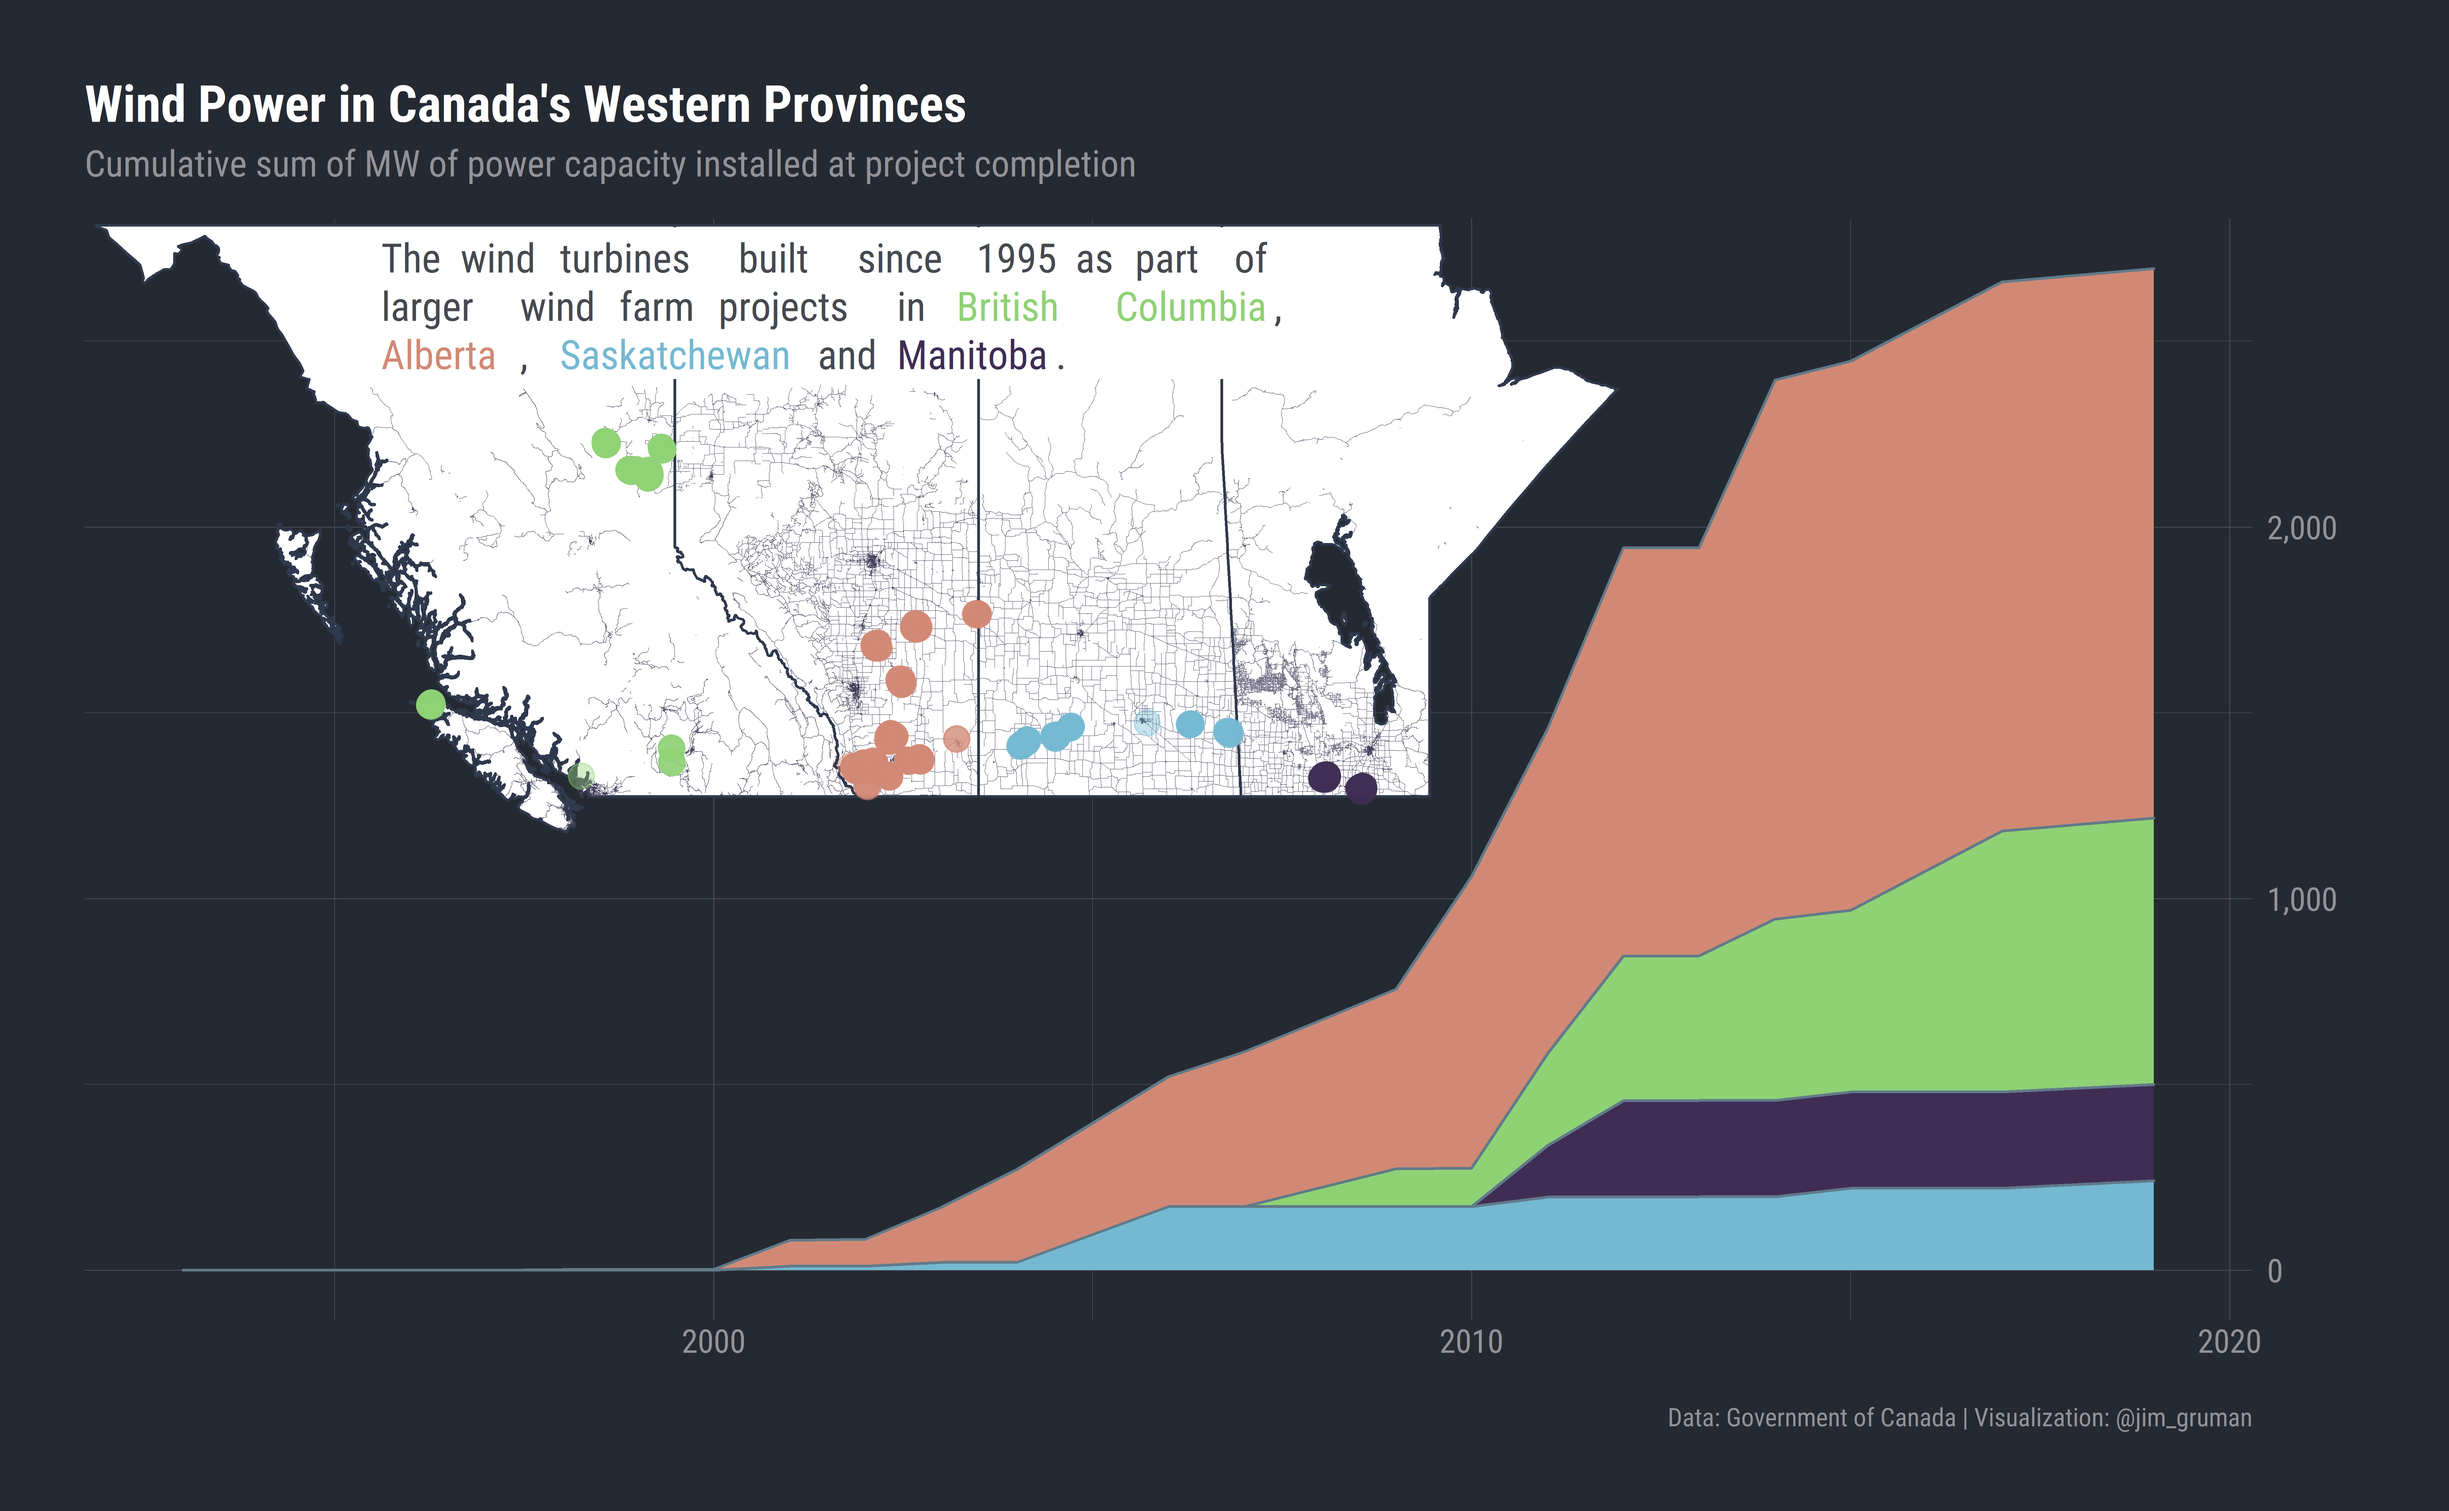
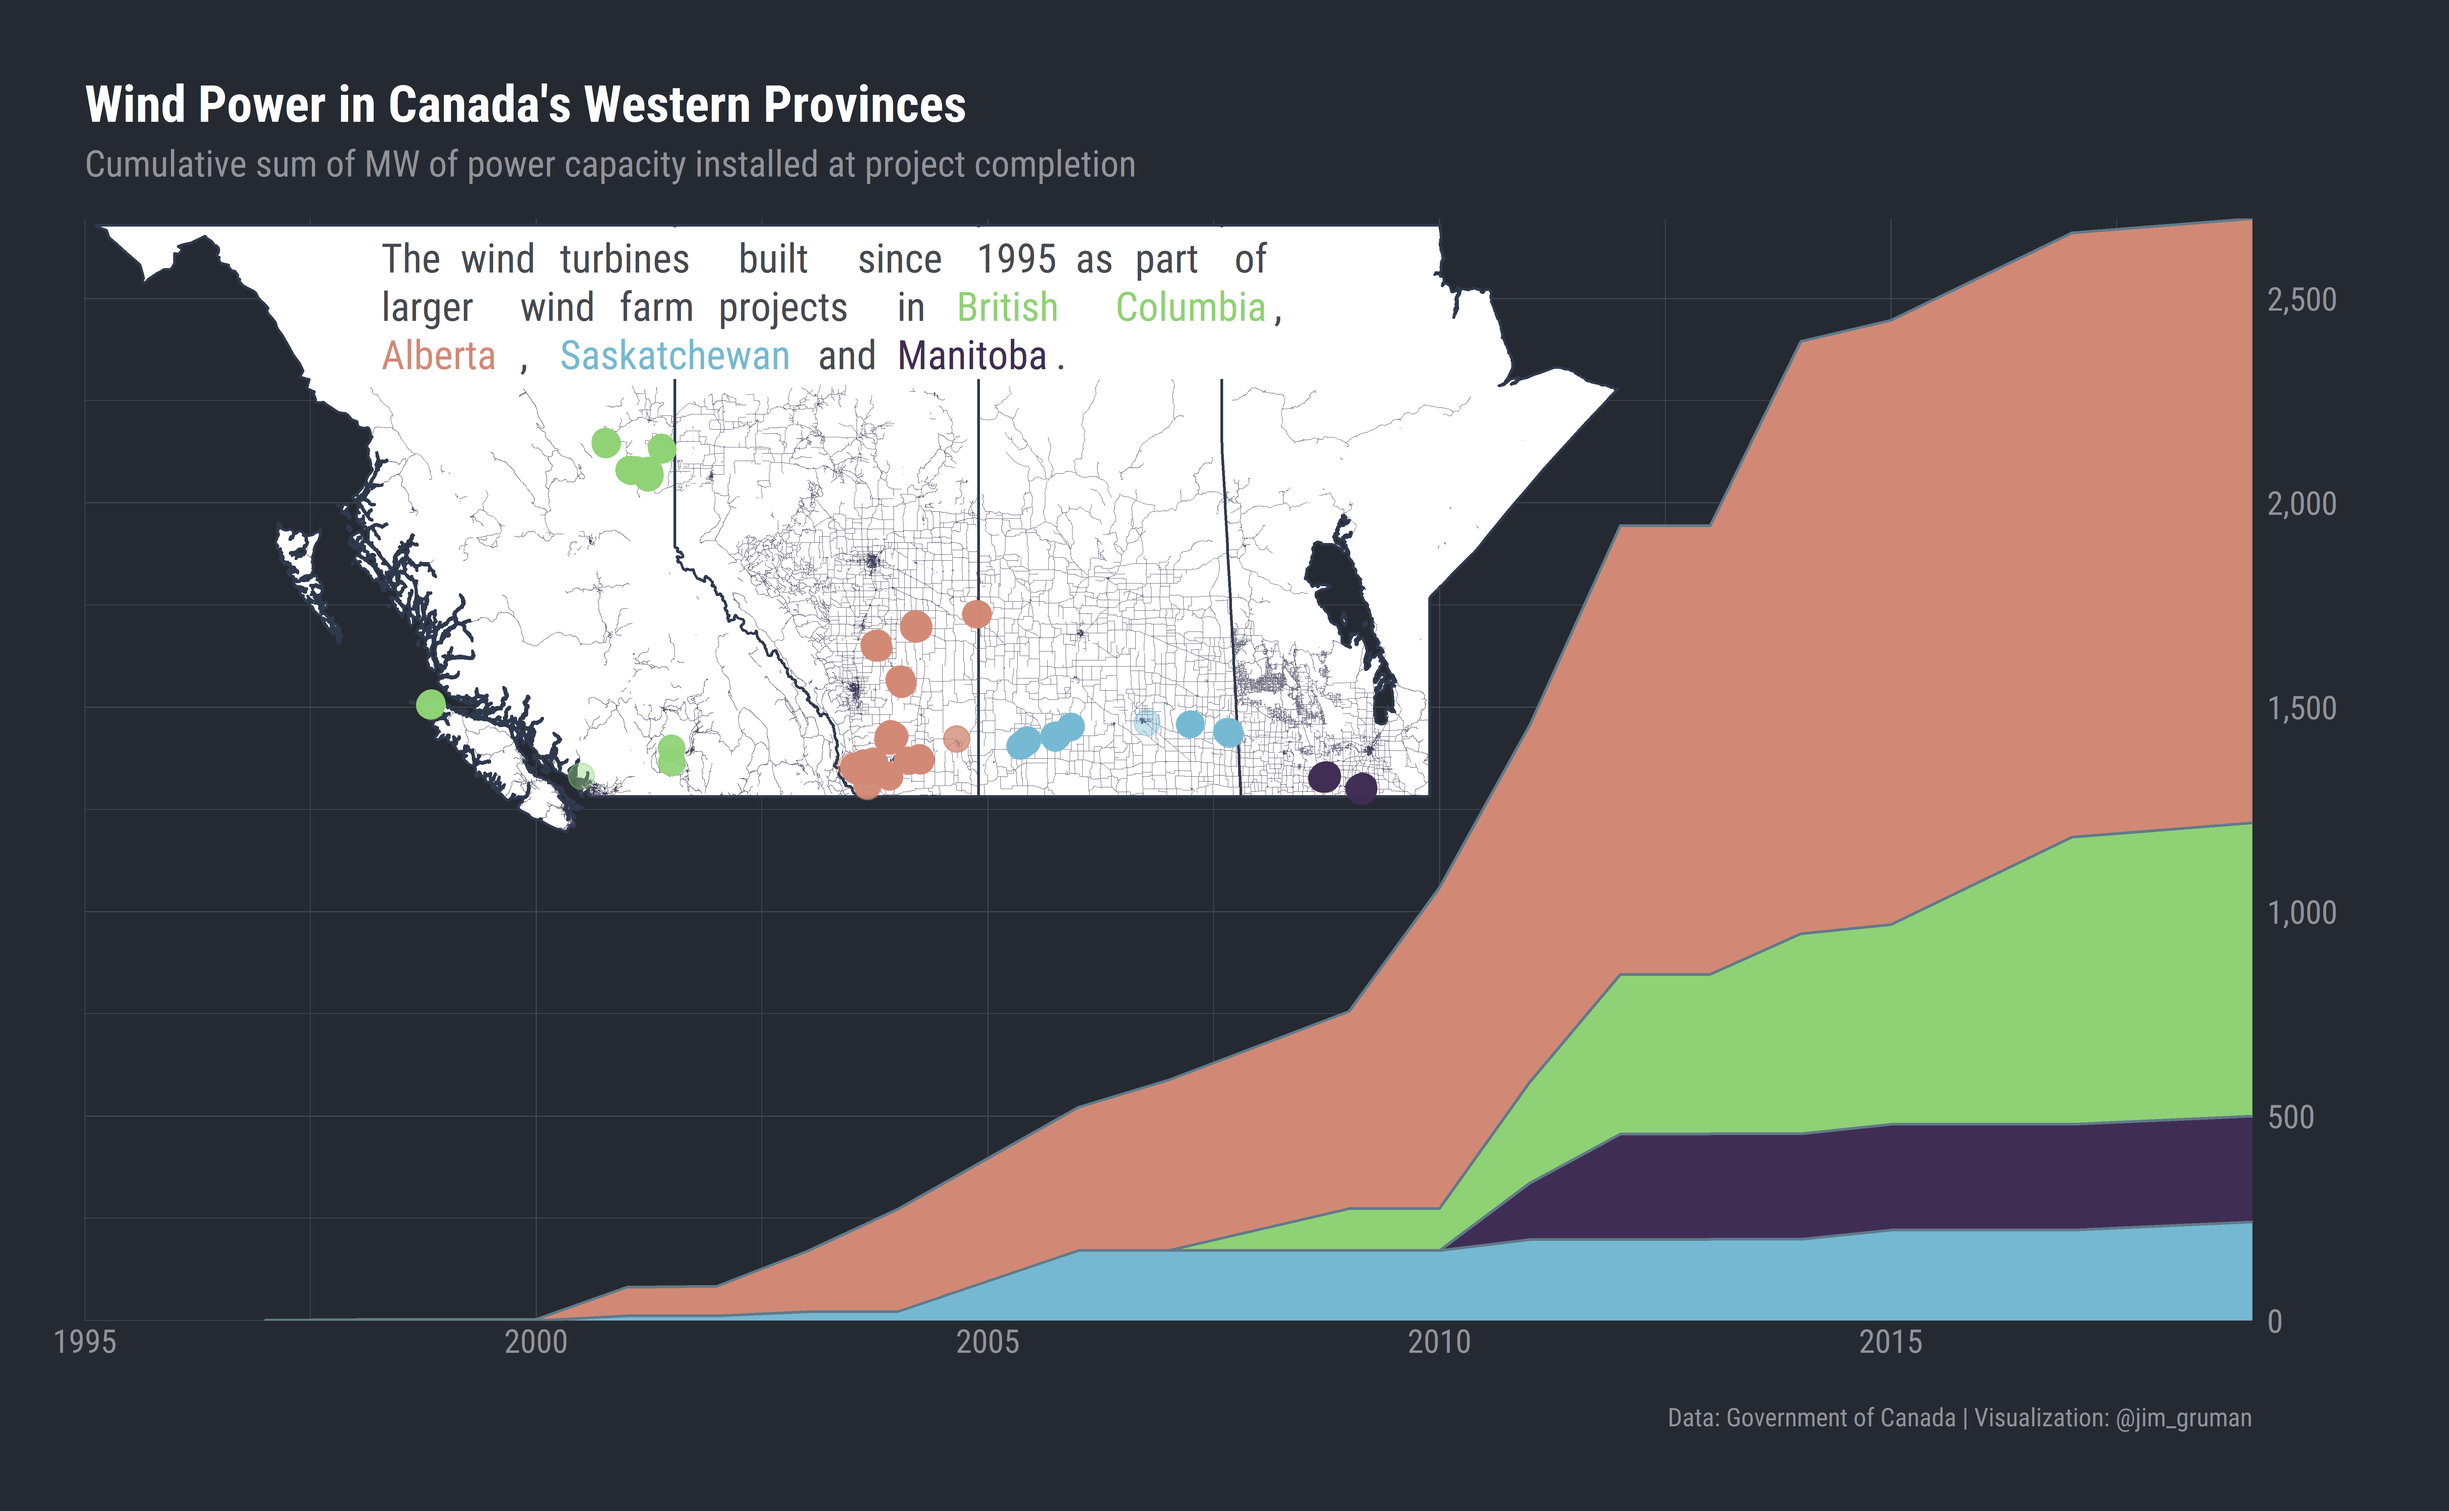
Build site.

diff --git a/docs/CanadaWindTurbines.html b/docs/CanadaWindTurbines.html
@@ -451,16 +451,16 @@ This reproducible <a href="http://rmarkdown.rstudio.com">R Markdown</a> analysis
 <div class="panel panel-default">
 <div class="panel-heading">
 <p class="panel-title">
-<a data-toggle="collapse" data-parent="#workflowr-checks" href="#strongRepositoryversionstrongahrefhttpsgithubcomopus1993myTidyTuesdaytree34b0a904b5809da68229fa64489a11414696914etargetblank34b0a90a"> <span class="glyphicon glyphicon-ok text-success" aria-hidden="true"></span> <strong>Repository version:</strong> <a href="https://github.com/opus1993/myTidyTuesday/tree/34b0a904b5809da68229fa64489a11414696914e" target="_blank">34b0a90</a> </a>
+<a data-toggle="collapse" data-parent="#workflowr-checks" href="#strongRepositoryversionstrongahrefhttpsgithubcomopus1993myTidyTuesdaytreeefd0fddf13daaf342c01f4a6f1b0d7ab17a53ab9targetblankefd0fdda"> <span class="glyphicon glyphicon-ok text-success" aria-hidden="true"></span> <strong>Repository version:</strong> <a href="https://github.com/opus1993/myTidyTuesday/tree/efd0fddf13daaf342c01f4a6f1b0d7ab17a53ab9" target="_blank">efd0fdd</a> </a>
 </p>
 </div>
[2 lines of base64/hex data omitted]
 <div class="panel-body">
 <p>
 Great! You are using Git for version control. Tracking code development and connecting the code version to the results is critical for reproducibility.
 </p>
 <p>
-The results in this page were generated with repository version <a href="https://github.com/opus1993/myTidyTuesday/tree/34b0a904b5809da68229fa64489a11414696914e" target="_blank">34b0a90</a>. See the <em>Past versions</em> tab to see a history of the changes made to the R Markdown and HTML files.
+The results in this page were generated with repository version <a href="https://github.com/opus1993/myTidyTuesday/tree/efd0fddf13daaf342c01f4a6f1b0d7ab17a53ab9" target="_blank">efd0fdd</a>. See the <em>Past versions</em> tab to see a history of the changes made to the R Markdown and HTML files.
 </p>
 <p>
 Note that you need to be careful to ensure that all relevant files for the analysis have been committed to Git prior to generating the results (you can use <code>wflow_publish</code> or <code>wflow_git_commit</code>). workflowr only checks the R Markdown file, but you know if there are other scripts or data files that it depends on. Below is the status of the Git repository when the results were generated:
@@ -510,6 +510,40 @@ Message
 </tr>
 </thead>
 <tbody>
+<tr>
+<td>
+Rmd
+</td>
+<td>
+<a href="https://github.com/opus1993/myTidyTuesday/blob/efd0fddf13daaf342c01f4a6f1b0d7ab17a53ab9/analysis/CanadaWindTurbines.Rmd" target="_blank">efd0fdd</a>
+</td>
+<td>
+opus1993
+</td>
+<td>
+2020-10-29
+</td>
+<td>
+wflow_publish(“analysis/CanadaWindTurbines.Rmd”)
+</td>
+</tr>
+<tr>
+<td>
+html
+</td>
+<td>
+<a href="https://rawcdn.githack.com/opus1993/myTidyTuesday/44c6bfc8051c61ff29688a8cca4257a9566882a2/docs/CanadaWindTurbines.html" target="_blank">44c6bfc</a>
+</td>
+<td>
+opus1993
+</td>
+<td>
+2020-10-29
+</td>
+<td>
+Build site.
+</td>
+</tr>
 <tr>
 <td>
 Rmd
@@ -1349,7 +1383,15 @@ p1 &lt;- western_turbines %&gt;%
   mutate(CumSumCapacity = cumsum(sumCapacity)) %&gt;%
   ggplot() +
   geom_area(aes(allOnlineDate, CumSumCapacity / 1000, fill = province_territory), show.legend = FALSE) +
-  scale_y_continuous(labels = scales::comma_format(), position = &quot;right&quot;) +
+  scale_y_continuous(
+    labels = scales::comma_format(),
+    position = &quot;right&quot;,
+    expand = c(0, 0)
+  ) +
+  scale_x_continuous(
+    limits = c(1995, 2019),
+    expand = c(0, 0)
+  ) +
   scale_fill_ipsum() +
   labs(
     y = &quot;&quot;, x = &quot;&quot;, fill = &quot;&quot;,
